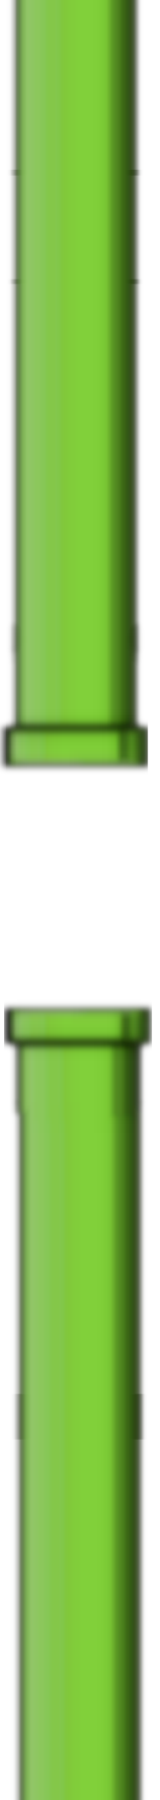
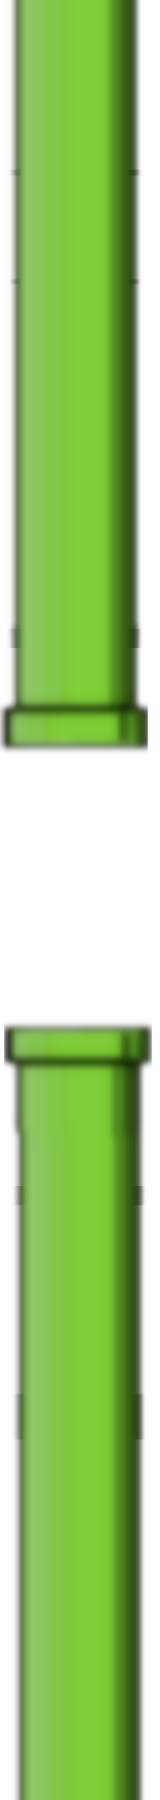
Increases pipe gap

Changed region(s): [[0.0, 0.3422, 0.9375, 0.4356], [0.0, 0.56, 0.9688, 0.6844], [0.8438, 0.6533, 0.9062, 0.6844]]

diff --git a/AI/FlappyBirdAi.h b/AI/FlappyBirdAi.h
@@ -28,7 +28,7 @@ public:
 
 			birds[i]->initPipes(pipes);
 			
-			brains.push_back(std::make_shared<NeuralNetwork>(4, 4, 2));
+			brains.push_back(std::make_shared<NeuralNetwork>(4, 1, 2));
 		}
 		
 	}
@@ -88,9 +88,6 @@ public:
 		}
 		index--;
 
-		std::wstringstream wss(L"");
-		wss << "\n" << index << "";
-		OutputDebugString(wss.str().c_str());
 
 		return index;
 
@@ -195,7 +192,7 @@ public:
 
 			MatrixXd input(4,1);
 			input << birds[i]->getYVelocity(), birds[i]->getY(),
-					 nearestPipe->getX(), nearestPipe->getGapH();
+					 nearestPipe->getX()-birds[i]->getX(), nearestPipe->getGapH();
 
 
 			int result = brains[i]->feedForward(input);

diff --git a/Game.h b/Game.h
@@ -81,7 +81,7 @@ private:
     Renderer renderer;
 
     //Speed
-    float speed = 400;
+    float speed = 500;
 
     //Background
     ScrollingBackground* background;

diff --git a/Components/Pipe.h b/Components/Pipe.h
@@ -7,7 +7,7 @@ private:
 	Vector2 screenPos;
 	int index;
 	const int w = 160;
-	int gapSize = 200;
+	int gapSize = 284;
 public:
 	Pipe(int initX);
 	~Pipe() = default;
